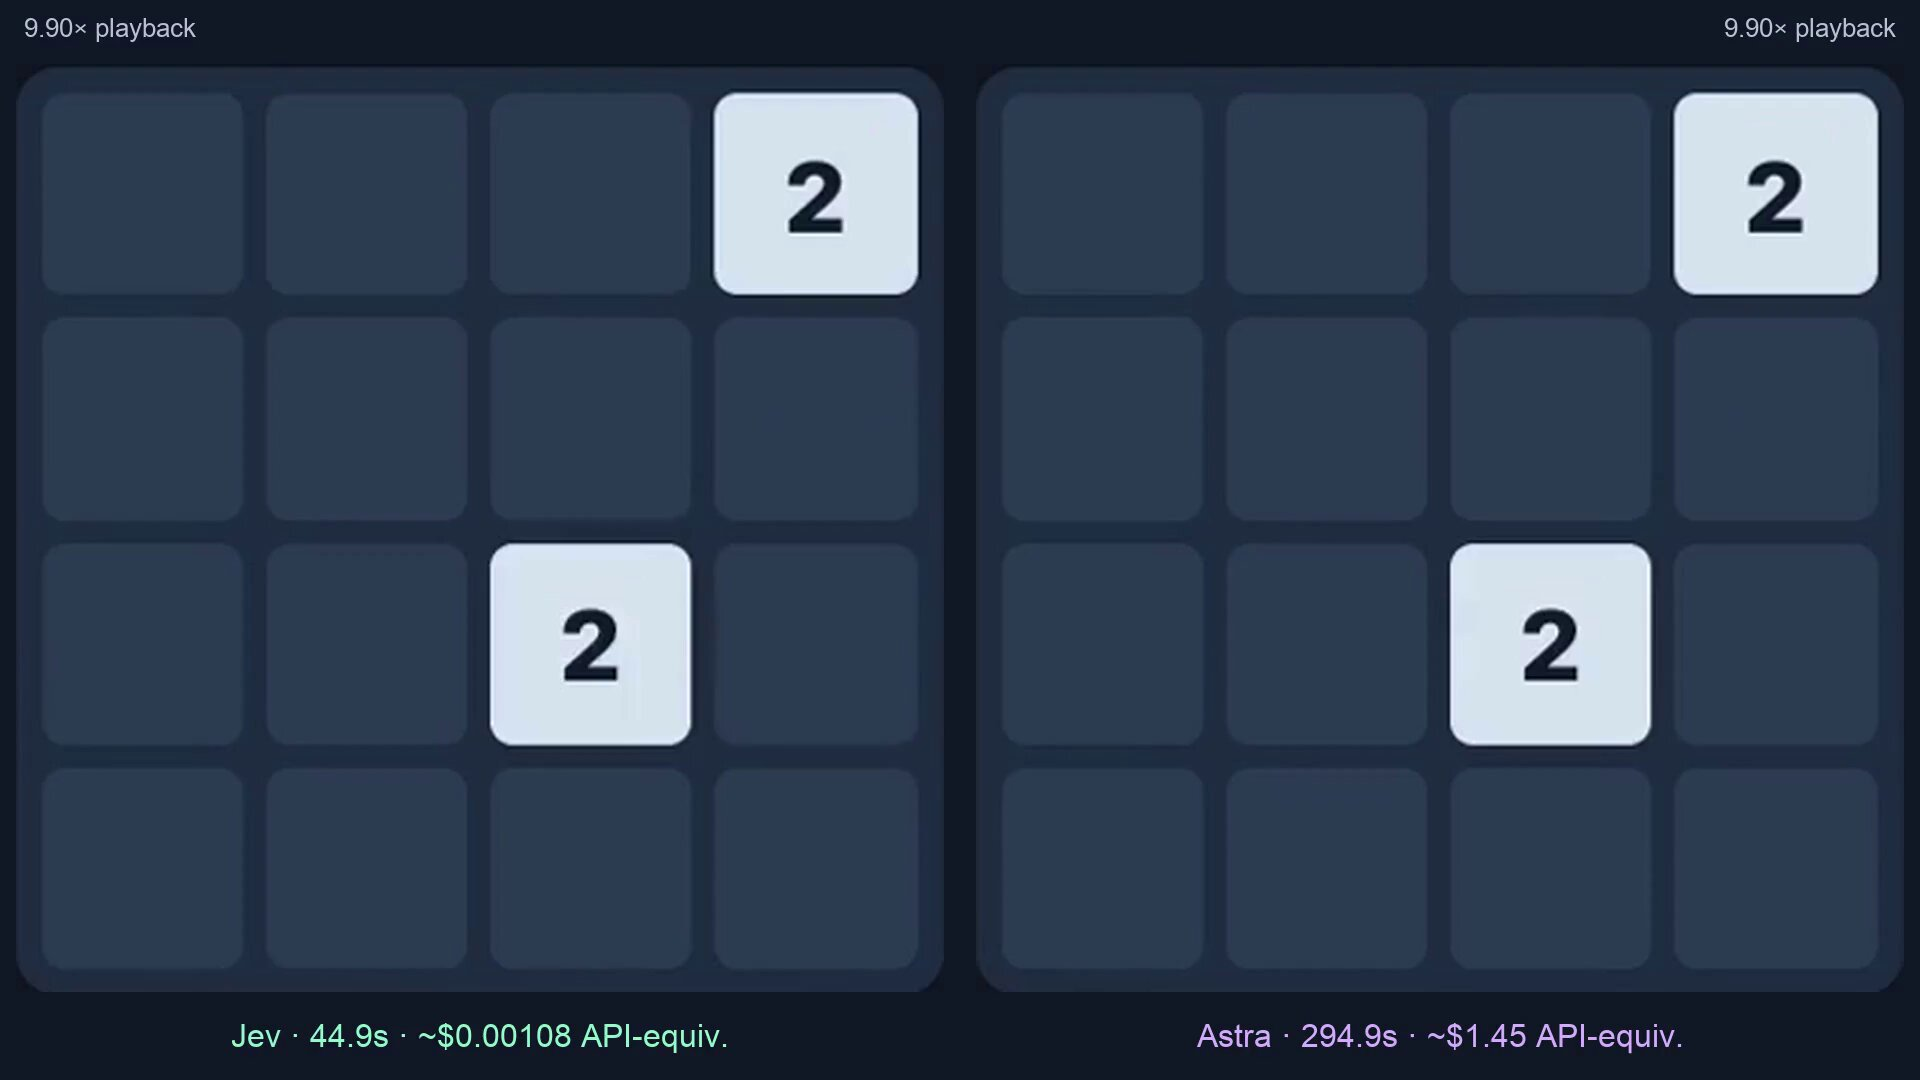
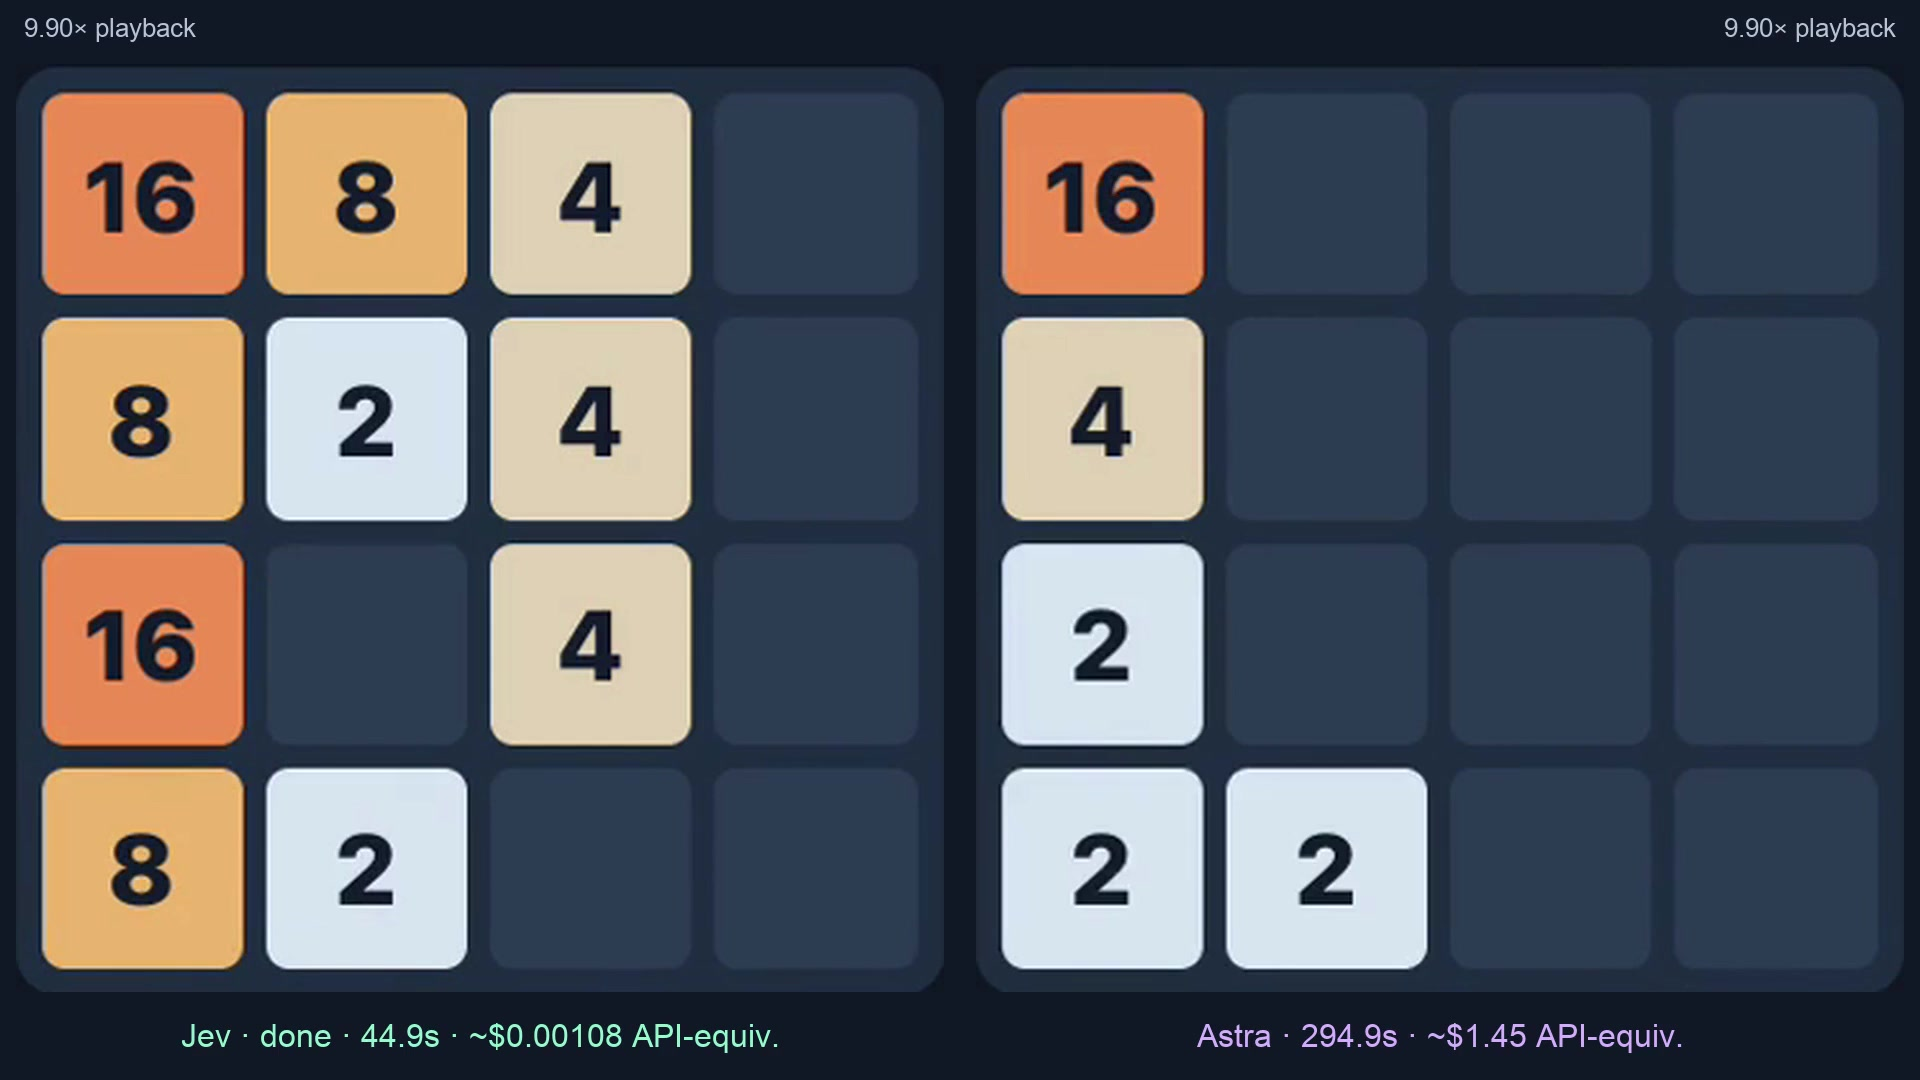
Agents/Jev: replace Cua video posters with sampled frames, renumber media
Both embedded videos are silent (single H.264 stream, no audio track), so no
transcript is possible. Sampled two frames per video at 25% and 75% instead of
using poster thumbnails; the 11.2s frame of video 2 shows the specialist having
completed a second form and submitted it while the LLM agent has filled none.
Media renumbered sequentially in article order, 001-009.

Claude-Session: https://claude.ai/code/session_0144g6uZMdRTQhNvNfn6422M

diff --git a/Agents/Jev/Cua keeps the candidate menu in application code so Jev only picks an ID - CUA-S1-FORMS is a 706K-parameter form specialist at 99.7 percent against hosted Jev's 83.6, and neither model sees pixels.md b/Agents/Jev/Cua keeps the candidate menu in application code so Jev only picks an ID - CUA-S1-FORMS is a 706K-parameter form specialist at 99.7 percent against hosted Jev's 83.6, and neither model sees pixels.md
@@ -20,7 +20,7 @@ description: Cua (Dillon, @ddupont808, and Francesco, @francedot) describes a co
 
 - **The hand-back trigger is an event, not a confidence number, and Cua says so deliberately.** Control returns to the LLM-driven planner on "an unexpected dialog or a failed check" - things that happen after execution, observed by application code. Cua then closes the loop on the obvious objection: "Knowing when a specialist is out of its depth is itself a hard problem, and a high score alone isn't an answer to it." Read against [[Daniel Ch's How to master Jev prescribes a 0.85 and 0.55 confidence-gate ladder under an LLM that still writes - the decision-layer architecture is additive but every number and all three charts are TypeSafe's own|Daniel Ch's 0.85 and 0.55 confidence-gate ladder]] this is the more defensible design, because nothing has ever calibrated the numbers those gates would read: [[Sutro's jev-align uses GEPA to rewrite Jev's decision criteria from five labeled examples - the demo moves labeled-set ambiguity 49.6 points but full-pool certainty only 0.5|jev-align moves pool certainty, not calibration]], [[Featherless's Simple Jev reproduces Jev's API on stock open models by remapping every answer to a single-token letter and softmaxing only those logits - no classifier head, and the code stamps every answer calibrated False|Simple Jev stamps every answer calibrated False]], and [[LangChain's Jev-as-a-Judge bench puts Jev's quality-score variance 92 to 913x below three LLM judges at $0.34 against Claude's $28.17 - five weather traces, one human oracle, provider-default sampling|the Jev-as-a-Judge bench never measured calibration either]]. The cost of Cua's choice is that the system only learns it was wrong after it has already clicked. [[BARGAIN routes classification to a small model via a confidence threshold calibrated on 500 oracle labels, cutting costs up to 86 percent more than competing cascades]] is the version that earns a threshold with 500 oracle labels and a distribution-free guarantee.
 
-- **The skeptic's read: two numbers in the prose, both Cua's own and both disclaimed, and the only end-to-end comparisons are burned into video overlays.** Dillon's head-to-head reports 99.7% decision accuracy for the specialist against 83.6% for hosted Jev - on a task the specialist was trained for, "including the convention of skipping already-filled fields," against a Jev that "was not fine-tuned for it." Timing is 7-9 ms local against 260-280 ms hosted, which Cua immediately concedes measures a forward pass against a network round trip. There is no OSWorld run, no VLM-agent baseline, no end-to-end task success rate and no cost per task anywhere in the text. What does exist sits in the two demo videos' poster frames: a 2048 side-by-side at Jev 44.9 s and ~$0.00108 API-equivalent against Astra 294.9 s and ~$1.45, and a forms race between one specialist pass and an LLM agent taking 23 tool turns over 39.6 s. Those are the article's most striking figures and none of them appears in a sentence, a table, or a caption. Compare the honesty of the framing to [[TypeSafe's Jev trades string generation for parallel-sampled typed decisions with calibrated probabilities at $0.042 per MTok - the 193x and 444x claims come from four self-built workflow evals|TypeSafe's own launch post]]: Cua is a vendor announcing its own model, and it still spends more words on what the result is not than on what it is.
+- **The skeptic's read: two numbers in the prose, both Cua's own and both disclaimed, and the only end-to-end comparisons are burned into video overlays.** Dillon's head-to-head reports 99.7% decision accuracy for the specialist against 83.6% for hosted Jev - on a task the specialist was trained for, "including the convention of skipping already-filled fields," against a Jev that "was not fine-tuned for it." Timing is 7-9 ms local against 260-280 ms hosted, which Cua immediately concedes measures a forward pass against a network round trip. There is no OSWorld run, no VLM-agent baseline, no end-to-end task success rate and no cost per task anywhere in the text. What does exist is locked inside two silent demo videos: a 2048 side-by-side at Jev 44.9 s and ~$0.00108 API-equivalent against Astra 294.9 s and ~$1.45, and a forms race where the specialist finishes the target form, completes a whole second form and submits it inside 11.2 seconds while the LLM agent, credited with 23 tool turns over 39.6 s total, has not yet filled one field. Those are the article's most striking figures and not one of them appears in a sentence, a table, or a caption - they are burned into video overlays, unqualified by any narration, which is exactly where a vendor's least-defensible comparisons tend to end up. Compare the honesty of the framing to [[TypeSafe's Jev trades string generation for parallel-sampled typed decisions with calibrated probabilities at $0.042 per MTok - the 193x and 444x claims come from four self-built workflow evals|TypeSafe's own launch post]]: Cua is a vendor announcing its own model, and it still spends more words on what the result is not than on what it is.
 
 ## How a Screenshot Becomes a Choice Set
 
@@ -56,7 +56,7 @@ The footer of that figure states the constraint the whole design rests on: *A sc
 
 **`jev-use`** is the artifact. It is "a public-preview integration recipe with examples connecting hosted TypeSafe Jev to Cua Driver," living at [`trycua/cua/tree/main/libs/cua-driver/examples/jev-use`](https://github.com/trycua/cua/tree/main/libs/cua-driver/examples/jev-use). It ships two paths: a deterministic mock, and a live path taking your own TypeSafe API key. Cua is careful about what the mock demonstrates - "The mock proves the loop wiring, not live model behavior" - and about what `jev-use` is not: "It isn't a new model living inside Driver." Driver executes actions in either setup and is not the decision-maker.
 
-No latency or cost per step is stated for this loop. The only numbers attached to it are in the demo video's poster frame, which shows a 2048 board race labelled `Jev · 44.9s · ~$0.00108 API-equiv.` against `Astra · 294.9s · ~$1.45 API-equiv.` at 9.90x playback - roughly 1,300x on cost and 6.6x on wall-clock, for a game rather than a browser workflow, with no methodology given for what "API-equiv." prices. Treat it as a demo artifact, not a measurement. The baseline named there is the same [[GPT-6 Astra swaps Codex compaction for notes across context windows plus searchable earlier windows including tool outputs|GPT-6 Astra]] the vault already tracks.
+No latency or cost per step is stated for this loop. The only numbers attached to it live in the 30-second demo video, which races two 2048 boards at 9.90x playback under the captions `Jev · 44.9s · ~$0.00108 API-equiv.` and `Astra · 294.9s · ~$1.45 API-equiv.` - roughly 1,300x on cost and 6.6x on wall-clock, for a game rather than a browser workflow, with no methodology given for what "API-equiv." prices. Sampling the clip makes the gap concrete: by 7.5 seconds Jev's board is already marked done and stops changing, and it is still pixel-identical at 22.5 seconds while Astra is only then reaching a 32 tile. The video is silent, so there is no narration qualifying any of it. Treat it as a demo artifact, not a measurement. The baseline named there is the same [[GPT-6 Astra swaps Codex compaction for notes across context windows plus searchable earlier windows including tool outputs|GPT-6 Astra]] the vault already tracks.
 
 ## CUA-S1-FORMS
 
@@ -83,7 +83,9 @@ No latency or cost per step is stated for this loop. The only numbers attached t
 
 Both are described as Dillon's "initial" numbers. Neither is independently replicated, and the 83.6% figure is a comparison against a general model on a task with a convention it was never told about, which is closer to a demonstration that fine-tuning helps than to a model-quality result.
 
-The demo video's poster frame carries the only end-to-end contrast: a split screen of a Northwind Clinic new-patient registration form, with `Jev-like model + cua-driver (one pass, 50 ms cursor glide)` on the left and `LLM agent + cua-driver only (23 tool turns, 39.6 s total)` on the right. The caption disclaims it: *This shows one form workflow, not a controlled benchmark.*
+The 15-second demo video carries the only end-to-end contrast, and it is worth watching rather than glancing at. A split screen puts `Jev-like model + cua-driver (one pass, 50 ms cursor glide)` against `LLM agent + cua-driver only (23 tool turns, 39.6 s total)`, both starting on the same Northwind Clinic new-patient registration form. At 3.7 seconds the two panes are indistinguishable, every field still empty. At 11.2 seconds the right pane has not filled a single field, while the left has completed Northwind Clinic, moved to a second form, an Acme Robotics job application, filled every field, checked both attestation boxes, left the optional referral code blank, clicked Submit, and logged `SUBMITTED 11:31:31.838`.
+
+That frame is also the clearest illustration in the whole article of what the four-way decision actually looks like in practice: type the supplied value, check, click, and - visibly, on the optional referral field - skip. The caption still disclaims the comparison, and it should: *This shows one form workflow, not a controlled benchmark.* The video is silent, with no audio track, so nothing in it qualifies the numbers burned into the window titles.
 
 ## Hand-Back Rules
 
@@ -218,8 +220,13 @@ The other two replies are non-substantive: a generic agreement and a promotional
 >
 > *jev-use in action: the app builds candidate actions, Jev selects one, and Cua Driver executes it. The app then checks the updated page.*
 >
-> *Video, 30s. Poster frame shows two 4x4 2048 boards side by side at 9.90x playback, captioned "Jev · 44.9s · ~$0.00108 API-equiv." on the left and "Astra · 294.9s · ~$1.45 API-equiv." on the right. Neither figure appears anywhere in the article text. Source: [1920x1080 mp4](https://video.twimg.com/amplify_video/2101433474888380416/vid/avc1/1920x1080/HeES_ziPdbVYMw8O.mp4?tag=29)*
+> *Video 1, 30 s, 1920x1080, silent - the file carries a single H.264 video stream and no audio track at all, so there is no narration to transcribe. Two 4x4 2048 boards run side by side at 9.90x playback under the standing captions `Jev · 44.9s · ~$0.00108 API-equiv.` and `Astra · 294.9s · ~$1.45 API-equiv.` Neither number appears anywhere in the article text. Source: [1920x1080 mp4](https://video.twimg.com/amplify_video/2101433474888380416/vid/avc1/1920x1080/HeES_ziPdbVYMw8O.mp4?tag=29)*
+>
+> *Frame at 7.5 s (25%): Jev's board already reads `Jev · done · 44.9s · ~$0.00108 API-equiv.` and holds 16/8/4, 8/2/4, 16/4, 8/2. Astra's board is still sparse at 16, 4, 2, 2/2 and carries no done marker.*
 > ![[trycua-904640-005.jpg]]
+>
+> *Frame at 22.5 s (75%): Jev's board is pixel-identical to the 7.5 s frame, frozen since it finished. Astra is still playing, having reached a 32 tile alongside 2/2/32/16 on the top row. At 9.90x playback the specialist's entire run is over inside the first quarter of the clip while the general agent grinds on for the remaining three.*
+> ![[trycua-904640-006.jpg]]
 >
 > In an LLM-driven loop, the model might generate a tool call and its arguments. In this recipe, those actions and arguments already exist in application code; Jev selects an ID. It can't invent tools, coordinates or arguments. Keeping the candidate menu in code gives us a boundary we can validate, though it doesn't remove the hard work of building good candidates or noticing when the page has changed underneath you. Driver executes the actions in either setup; it isn't the model making the decision.
 >
@@ -233,8 +240,13 @@ The other two replies are non-substantive: a generic agreement and a promotional
 >
 > *CUA-S1-FORMS alongside an LLM agent using Cua Driver. This shows one form workflow, not a controlled benchmark.*
 >
-> *Video, 15s. Poster frame is a split screen: left window titled "Jev-like model + cua-driver (one pass, 50 ms cursor glide)" over an editor showing data/jevform, demo/docs/\*.pdf, patient-referral.pdf, python -m jevform.server and runs/RESULTS.md; right window titled "LLM agent + cua-driver only (23 tool turns, 39.6 s total)" over a "Northwind Clinic - New Patient Registration" form with patient details, home address, insurance and emergency contact fields, all empty. Both timers read 0.0 s. Source: [1520x1340 mp4](https://video.twimg.com/amplify_video/2101436834551046145/vid/avc1/1520x1340/DR5hjmUC4FQtQM3k.mp4?tag=29)*
-> ![[trycua-904640-006.jpg]]
+> *Video 2, 15 s, 1520x1340, silent - again a single H.264 video stream with no audio track, so there is nothing to transcribe. A split screen races `Jev-like model + cua-driver (one pass, 50 ms cursor glide)` on the left against `LLM agent + cua-driver only (23 tool turns, 39.6 s total)` on the right, with a shared elapsed-time counter in the top right of each pane. Source: [1520x1340 mp4](https://video.twimg.com/amplify_video/2101436834551046145/vid/avc1/1520x1340/DR5hjmUC4FQtQM3k.mp4?tag=29)*
+>
+> *Frame at 3.7 s (25%): both panes sit on the same "Northwind Clinic - New Patient Registration" page with every field empty and the status bar reading "Loaded patient-registration". The run has effectively not diverged yet.*
+> ![[trycua-904640-007.jpg]]
+>
+> *Frame at 11.2 s (75%): the divergence is total. The right pane is still on Northwind Clinic with every field blank. The left pane has finished that form, navigated to a second one, "Acme Robotics - Job Application", filled it and submitted it - Mateo Delgado, mateo.delgado@proton.me, 512-555-0177, linkedin.com/in/mateo-delgado, Initech, Robotics Technician, 7 years, $92,000, start 2026-11-02, plus a one-line cover letter. All four of the specialist's actions are visible at once: supplied values typed into the text fields, both attestation checkboxes checked, Submit clicked, and "Referral code (optional)" deliberately left blank. A green log reads `SUBMITTED 11:31:31.838` over the submitted key-value pairs and the status bar reads "Submitted".*
+> ![[trycua-904640-008.jpg]]
 >
 > That distinction matters when comparing it with an LLM agent. The specialist starts with the form elements and supplied values; it doesn't do the work of interpreting the original request or extracting those values. A general-purpose LLM could handle those steps in a larger workflow, but that would be a separate part of the system, not a capability of CUA-S1-FORMS.
 >
@@ -251,7 +263,7 @@ The other two replies are non-substantive: a generic agreement and a promotional
 > The handoff we'd like to explore goes like this. A general-purpose LLM interprets the request and plans the unfamiliar parts: getting to the form, working out what information is needed, recovering when something unexpected appears. It could also extract values from a document or generate text when the task calls for it. Once the decisions become familiar and narrow, the agent delegates to a specialist. Application code enforces constraints, executes, and checks. An unexpected dialog or a failed check returns control to the LLM-driven planner.
 >
 > *Slide 03/03, "DIRECTION TO EXPLORE - Where a specialist could fit.": GENERAL AGENT (plans the task, handles unfamiliar state) passes "familiar state" to SPECIALIST (scores familiar choices, e.g. CUA-S1-FORMS), which passes "chosen action" to APPLICATION (validates, executes, checks the result). A solid return edge labelled "EXPECTED · next familiar choice" loops back to the specialist; a dashed edge labelled "UNEXPECTED · back to the general agent" loops back to the general agent. Footer: "Proposed architecture, not a released unified system."*
-> ![[trycua-904640-007.jpg]]
+> ![[trycua-904640-009.jpg]]
 >
 > This is **a direction, not a unified system we've shipped**. Knowing when a specialist is out of its depth is itself a hard problem, and a high score alone isn't an answer to it.
 >
@@ -320,10 +332,10 @@ Every URL in the article, in order of appearance:
 - [github.com/trycua/cua](https://github.com/trycua/cua) - the Cua monorepo holding both projects
 - hello@trycua.com - where Cua asks for candidate workflows
 
-Media not in the article body but referenced above:
+The two embedded videos, whose direct mp4 URLs the article body does not expose. Both are silent screen recordings: each file carries one H.264 video stream and no audio track, so neither has a transcript.
 
-- [Video 1, 30s mp4](https://video.twimg.com/amplify_video/2101433474888380416/vid/avc1/1920x1080/HeES_ziPdbVYMw8O.mp4?tag=29) - the jev-use demo
-- [Video 2, 15s mp4](https://video.twimg.com/amplify_video/2101436834551046145/vid/avc1/1520x1340/DR5hjmUC4FQtQM3k.mp4?tag=29) - the CUA-S1-FORMS demo
+- [Video 1, 30 s, 1920x1080 mp4](https://video.twimg.com/amplify_video/2101433474888380416/vid/avc1/1920x1080/HeES_ziPdbVYMw8O.mp4?tag=29) - the jev-use 2048 demo, sampled here at 7.5 s and 22.5 s
+- [Video 2, 15 s, 1520x1340 mp4](https://video.twimg.com/amplify_video/2101436834551046145/vid/avc1/1520x1340/DR5hjmUC4FQtQM3k.mp4?tag=29) - the CUA-S1-FORMS demo, sampled here at 3.7 s and 11.2 s
 
 Authors:
 
